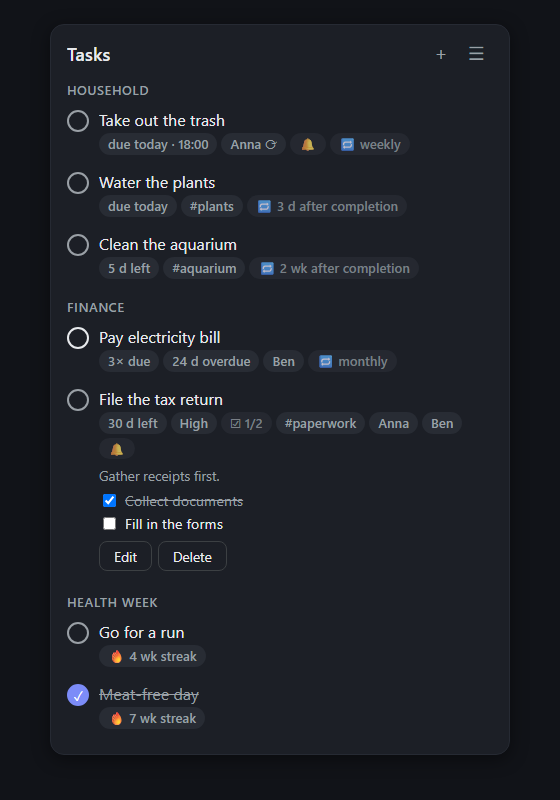
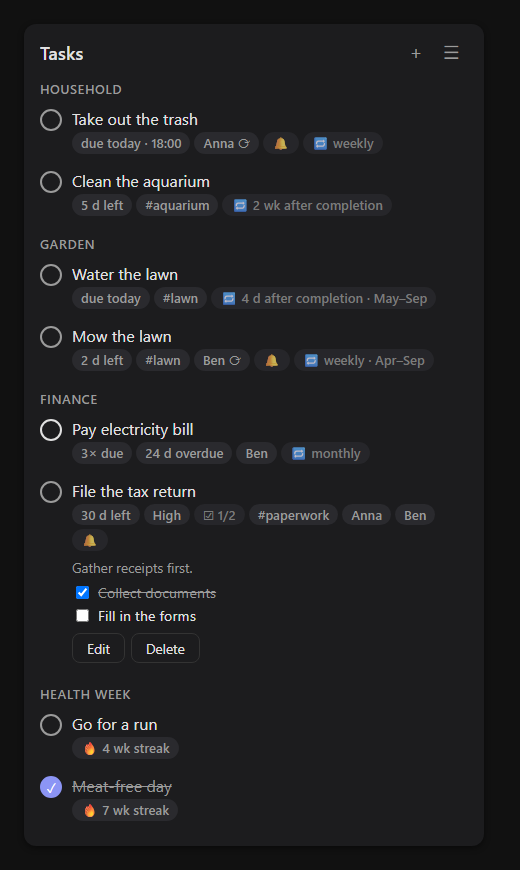
README: refresh all screenshots (active months, list reordering, task id) and mention them

diff --git a/README.md b/README.md
@@ -29,6 +29,7 @@ a fixed schedule. Real life needs more:
 | 📄 *"Cancel the contract before Dec 31."* | The task stays invisible until Dec 1 (**visible-from date**), then shows a **live countdown** to the deadline. |
 | 🚴 *"Ride the bike once a week."* | A **weekly task** that reopens every Monday, tracks your **streak** ("15 wk streak 🔥") and how long you've been skipping it ("3 wk missed"). Skipping deliberately **freezes** the streak instead of breaking it. |
 | 🗑 *"Kids take turns carrying out the trash."* | **Rotating assignment** over a freely chosen pool of persons — every completion passes the task to the next person. |
+| 🌱 *"Mow the lawn every Saturday — but only April to September."* | **Active months** on any recurring task: outside the season it simply stays quiet, and the badge says so ("weekly · Apr–Sep"). |
 
 ## Features
 
@@ -93,11 +94,11 @@ restart. HACS is strongly recommended so you get updates.
 
 | Card menu | Filters |
 |:---:|:---:|
-| <img src="https://raw.githubusercontent.com/Timmes123/ha-better-todo/main/images/card-menu.png" width="340" alt="Card menu with Show filters, Edit lists and Clear completed"> | <img src="https://raw.githubusercontent.com/Timmes123/ha-better-todo/main/images/card-filters.png" width="340" alt="Filter bar with list chips, tag chips, person filter and sorting"> |
+| <img src="https://raw.githubusercontent.com/Timmes123/ha-better-todo/main/images/card-menu.png" width="340" alt="Card menu with Show filters, Edit lists and Clear completed"> | <img src="https://raw.githubusercontent.com/Timmes123/ha-better-todo/main/images/card-filters.png" width="340" alt="Filter bar with list chips, tag chips, person filter, sorting and view toggles"> |
 
 | Task dialog | List management |
 |:---:|:---:|
-| <img src="https://raw.githubusercontent.com/Timmes123/ha-better-todo/main/images/task-dialog.png" width="340" alt="Task dialog with schedule, reminders, tag picker and rotating assignment"> | <img src="https://raw.githubusercontent.com/Timmes123/ha-better-todo/main/images/list-manager.png" width="340" alt="Edit lists dialog"> |
+| <img src="https://raw.githubusercontent.com/Timmes123/ha-better-todo/main/images/task-dialog.png" width="340" alt="Task dialog with schedule, active months, reminders, tag picker and rotating assignment"> | <img src="https://raw.githubusercontent.com/Timmes123/ha-better-todo/main/images/list-manager.png" width="340" alt="Edit lists dialog with rename and reorder"> |
 
 Not a fan of colorful badges? Turn off **Multicolor** in the card editor (or set
 `colorful: false`) and every badge switches to your theme's neutral colors:
@@ -107,7 +108,7 @@ Not a fan of colorful badges? Turn off **Multicolor** in the card editor (or set
 | <img src="https://raw.githubusercontent.com/Timmes123/ha-better-todo/main/images/card-overview.png" width="340" alt="Card with multicolor badges"> | <img src="https://raw.githubusercontent.com/Timmes123/ha-better-todo/main/images/card-overview-mono.png" width="340" alt="Card with monochrome badges in theme colors"> |
 
 The **☰ menu** offers *Show filters* (list/tag/person filter, sorting, view toggles),
-*Edit lists* (create, rename, delete — deleting a list removes its tasks and entities),
+*Edit lists* (create, rename, reorder, delete — deleting a list removes its tasks and entities),
 *Clear completed* (removes all completed tasks in the currently visible lists, with
 confirmation) and *Reset filters* (shown while any filter deviates from the defaults).
 
